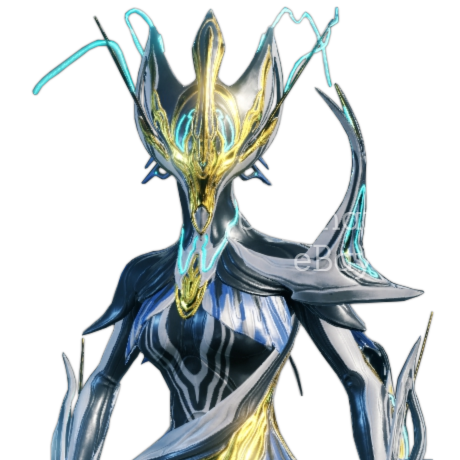
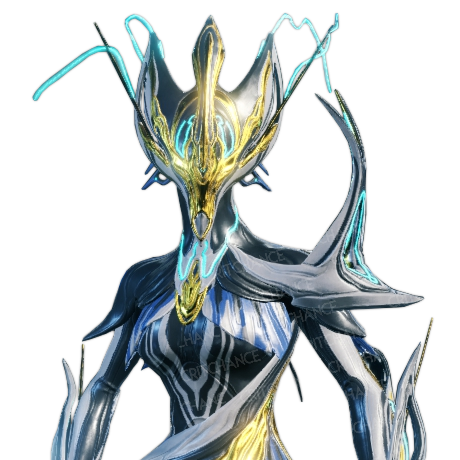
add images for all prime frames

Changed region(s): [[0.0609, 0.0, 0.9435, 1.0]]

diff --git a/index.html b/index.html
@@ -19,19 +19,19 @@
 </div>
 <div class="wp960 main-contents">
  <div class="pd20">
-  <h2>Paid consultation on Warframe (PlayStation) and a Banshee Prime set as a gift</h2>
+  <h2>Paid consultation on Warframe (PlayStation) and a Chroma Prime set as a gift</h2>
   <div class="main-desc">
    <div class="images-left card">
     <div class="left-card">
-     <img alt="Product Image" src="https://goxld.github.com/img/warframe/banshee/Banshee_Prime2.png">
+     <img alt="Product Image" src="https://goxld.github.com/img/warframe/chrome/ChromaPrime.png">
     </div>
    </div>
    <div class="sell-points">
     <div class="card five">
      <div class="right-card">
-      <a class="borderR fullwb button itemId" href="https://cgi1.ebay.co.uk/ws/eBayISAPI.dll?MakeTrack&amp;item=124068330955" target="_blank"><i data-icon="i" class="icon"></i> Watch item</a>
+      <a class="borderR fullwb button itemId" href="https://cgi1.ebay.co.uk/ws/eBayISAPI.dll?MakeTrack&amp;item=124068695020" target="_blank"><i data-icon="i" class="icon"></i> Watch item</a>
       <div class="watch-tell">
-       <a class="borderR button ask" href="https://contact.ebay.fr/ws/eBayISAPI.dll?FindAnswers&redirect=0&iid=124068330955&requested=critchance"  target="_blank"><i class="icon-2question"></i> Ask a question&nbsp;</a><a class="borderR button" id="tell" href="https://contact.ebay.com/ws1/eBayISAPI.dll?ShowEmailAuctionToFriend&amp;item=124068330955" target="_blank"> <i class="icon-3mail-read"></i> Tell a friend</a>
+       <a class="borderR button ask" href="https://contact.ebay.fr/ws/eBayISAPI.dll?FindAnswers&redirect=0&iid=124068695020&requested=critchance"  target="_blank"><i class="icon-2question"></i> Ask a question&nbsp;</a><a class="borderR button" id="tell" href="https://contact.ebay.com/ws1/eBayISAPI.dll?ShowEmailAuctionToFriend&amp;item=124068695020" target="_blank"> <i class="icon-3mail-read"></i> Tell a friend</a>
       </div>
      </div>
     </div>
@@ -63,10 +63,10 @@
   <div class="card pd20" id="tab2">
    <p>
     <span style="font-size: 2.6rem;">
-     - You buy Paid consultation on Warframe and a Banshee Prime set as a gift
+     - You buy Paid consultation on Warframe and a Chroma Prime set as a gift
     </span><br><br>
     <span style="font-size: 2.6rem;">
-     - Only PlayStation and need to have <strong>Mastery Rank 8</strong>
+     - Only PlayStation and need to have <strong>Mastery Rank 6</strong>
     </span><br><br>
     <span style="font-size: 2.6rem; ">
      - For this lot you need at least 60 000 credits for in-game tax. 
